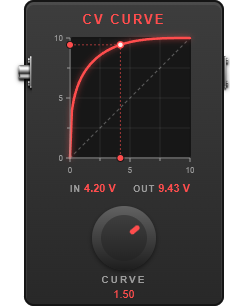
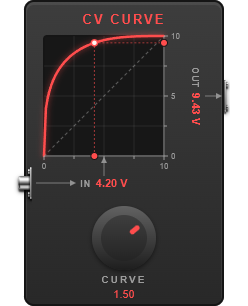
Redesign the graph labels, add signal-flow arrows, and glide the dots
- The output ruler moves to the right-hand side of the graph. The IN readout
  now sits under the bottom ruler as the x-axis label, and the OUT readout
  runs up the right ruler as the y-axis label, so each axis says what it is.
- Thin arrows show the signal flowing in from the left jack, into the bottom
  of the graph, and out to the right jack. The jacks move to line up with the
  IN and OUT readouts.
- The input and output dots, guide lines and numbers ease toward each new
  value instead of stepping, since MOD only reports the values a few times a
  second. It is browser-side only (the Dwarf sends the same data as before)
  and deliberately tight (30 ms) so it does not trail what you hear.
- tests/modgui-script-test.js now also drives animation frames by hand to
  check the dots glide, settle exactly on the target, run a single loop that
  stops when idle, and stop when the pedal is removed.
- Regenerated the store screenshot and thumbnail; README describes the new
  layout.

diff --git a/tests/modgui-script-test.js b/tests/modgui-script-test.js
@@ -4,6 +4,7 @@
 //   - it calls the script's function afresh for EVERY update, with a new `event` each time;
 //   - the only thing carried from one call to the next is `event.data`, one object kept for the life of the pedal;
 //   - if the function ever throws, MOD disables the script for good.
+// Animation frames are driven by hand here so the smoothing can be checked exactly.
 //
 // Usage: node tests/modgui-script-test.js
 const fs = require('fs');
@@ -12,9 +13,22 @@ const path = require('path');
 const src = fs.readFileSync(path.join(__dirname, '..', 'mod-cv-curve.lv2', 'modgui', 'script-mod-cv-curve.js'), 'utf8').trim();
 const fn = eval('(' + src + ')');
 
+// Animation frames, advanced by hand.
+let frames = [];
+let now = 1000;
+global.window = { requestAnimationFrame(f) { frames.push(f); return frames.length; } };
+function advance(ms) {
+  for (let t = 0; t < ms; t += 16) {
+    now += 16;
+    const batch = frames; frames = [];
+    batch.forEach(f => f(now));
+  }
+}
+
 // A stand-in for MOD's icon: remembers the last thing the script wrote to each element.
 const written = {};
 const icon = {
+  0: { isConnected: true },
   find(selector) {
     return {
       attr(key, value) {
@@ -36,34 +50,58 @@ function send(event) {
 
 let failures = 0;
 function check(name, ok) { console.log((ok ? 'PASS' : 'FAIL') + '  ' + name); if (!ok) failures++; }
-const px = v => 30 + v / 10 * 120, py = v => 126 - v / 10 * 120;
+// The graph: 0 V, 0 V is at (20, 156); the plot is 120 px square; the output ruler is the right-hand edge, x = 140.
+const px = v => 20 + v / 10 * 120, py = v => 156 - v / 10 * 120;
 
 send({ type: 'start', ports: [{ symbol: 'Curve', value: -0.25 }, { symbol: 'InputValue', value: 0 }, { symbol: 'OutputValue', value: 0 }] });
-check('start draws the curve', /^M30\.00 126\.00L/.test(written['.curve-path d'] || ''));
+check('start draws the curve from the bottom-left corner', /^M20\.00 156\.00L/.test(written['.curve-path d'] || ''));
+check('start puts the dots at the origin of their rulers', written['.in-dot cx'] === 20 && written['.in-dot cy'] === 156 && written['.out-dot cx'] === 140 && written['.out-dot cy'] === 156);
+check('start needs no animation', frames.length === 0);
 
-// The Dwarf reports the two values in separate updates, so each update must keep the other value.
+// The Dwarf reports the two values in separate updates.
 send({ type: 'change', symbol: 'InputValue', value: 6.44 });
 send({ type: 'change', symbol: 'OutputValue', value: 5.27 });
-check('input readout survives the output update', written['.in-val text'] === '6.44 V');
-check('output readout shows the output value', written['.out-val text'] === '5.27 V');
-check('input dot is on the bottom axis at the input voltage', written['.in-dot cx'] === px(6.44) && written['.in-dot cy'] === 126);
-check('output dot is on the left axis at the output voltage', written['.out-dot cx'] === 30 && written['.out-dot cy'] === py(5.27));
-check('curve dot is where the two meet', written['.pt-dot cx'] === px(6.44) && written['.pt-dot cy'] === py(5.27));
-check('vertical guide line joins the input dot to the curve', written['.in-line d'] === 'M' + px(6.44) + ' 126V' + py(5.27));
-check('horizontal guide line joins the output dot to the curve', written['.out-line d'] === 'M30 ' + py(5.27) + 'H' + px(6.44));
+check('a new value does not jump: the dots have not moved yet', written['.in-dot cx'] === 20 && written['.out-dot cy'] === 156);
+check('updates start exactly one animation loop', frames.length === 1);
+
+advance(64);
+const inEarly = written['.in-dot cx'], outEarly = written['.out-dot cy'];
+check('the input dot glides: partway along the bottom ruler', inEarly > 20 && inEarly < px(6.44));
+check('the output dot glides: partway up the right-hand ruler', outEarly < 156 && outEarly > py(5.27));
+advance(64);
+check('both dots keep moving toward their targets', written['.in-dot cx'] > inEarly && written['.out-dot cy'] < outEarly);
+
+advance(3000);
+check('the input dot settles exactly on the input voltage, on the bottom ruler', written['.in-dot cx'] === px(6.44) && written['.in-dot cy'] === 156);
+check('the output dot settles exactly on the output voltage, on the right-hand ruler', written['.out-dot cx'] === 140 && written['.out-dot cy'] === py(5.27));
+check('the curve dot is where the two meet', written['.pt-dot cx'] === px(6.44) && written['.pt-dot cy'] === py(5.27));
+check('vertical guide line joins the input dot to the curve', written['.in-line d'] === 'M' + px(6.44) + ' 156V' + py(5.27));
+check('horizontal guide line joins the curve to the output dot', written['.out-line d'] === 'M' + px(6.44) + ' ' + py(5.27) + 'H140');
+check('IN and OUT readouts show the final values', written['.in-val text'] === '6.44 V' && written['.out-val text'] === '5.27 V');
+check('the loop stops once everything has settled', frames.length === 0);
 
 send({ type: 'change', symbol: 'InputValue', value: 2 });
+advance(3000);
 check('a new input keeps the last output', written['.out-val text'] === '5.27 V' && written['.in-val text'] === '2.00 V');
 
 const before = written['.curve-path d'];
 send({ type: 'change', symbol: 'Curve', value: 3 });
-check('turning Curve redraws the curve', written['.curve-path d'] !== before);
+check('turning Curve redraws the curve at once', written['.curve-path d'] !== before && frames.length === 0);
 check('turning Curve keeps the dots where they were', written['.in-val text'] === '2.00 V' && written['.out-val text'] === '5.27 V');
 
 send({ type: 'change', symbol: 'InputValue', value: 14 });
+advance(3000);
 check('input above 10 V keeps its dot on the graph', written['.in-dot cx'] === px(10));
 send({ type: 'change', symbol: 'OutputValue', value: -3 });
+advance(3000);
 check('output below 0 V keeps its dot on the graph', written['.out-dot cy'] === py(0));
+
+send({ type: 'change', symbol: 'InputValue', value: 8 });
+send({ type: 'change', symbol: 'OutputValue', value: 9 });
+icon[0].isConnected = false;
+advance(200);
+check('animation stops when the pedal is removed from the page', frames.length === 0);
+icon[0].isConnected = true;
 
 send({ type: 'change', symbol: 'InputValue', value: 'oops' });
 send({ type: 'change', symbol: 'InputValue', value: NaN });

diff --git a/mod-cv-curve.lv2/modgui/script-mod-cv-curve.js b/mod-cv-curve.lv2/modgui/script-mod-cv-curve.js
@@ -1,12 +1,22 @@
 // Keeps the graph in step with the plugin: redraws the curve when Curve changes, and moves the input/output
-// dots, their guide lines and the numeric readouts as the Input Value and Output Value ports change.
+// dots, their guide lines and the IN / OUT readouts as the Input Value and Output Value ports change. MOD only
+// reports those values a few times a second, so the dots glide to each new value instead of jumping.
 function (event) {
     var icon = event.icon;
-    // The graph is drawn in pixels: the plot area is 120x120 with 0 V, 0 V at (30, 126).
-    var X0 = 30, Y0 = 126, SIZE = 120;
+    // The graph is drawn in pixels: the plot area is 120x120 with 0 V, 0 V at (20, 156); the output ruler is the
+    // right-hand edge at x = 140.
+    var X0 = 20, Y0 = 156, SIZE = 120, XR = X0 + SIZE;
+    // Milliseconds: how quickly the dots catch up with the latest value. Small on purpose, so the smoothing only
+    // hides the steps between MOD's updates without trailing noticeably behind what you hear.
+    var TAU = 30;
+
     // MOD calls this function afresh for every update; only event.data carries over between calls, so the
     // values the graph needs live there. (If this function ever throws, MOD disables the script for good.)
-    var state = event.data.state || (event.data.state = { curve: 0, input: 0, output: 0 });
+    var s = event.data.state || (event.data.state = {
+        curve: 0, input: 0, output: 0,      // the latest values from the plugin
+        shownIn: 0, shownOut: 0,            // what is drawn right now, easing toward the latest values
+        last: 0, running: false
+    });
 
     var curvePath = icon.find('.curve-path');
     var inLine = icon.find('.in-line');
@@ -23,7 +33,7 @@ function (event) {
 
     function drawCurve() {
         // The same maths as the plugin. u is the input as a fraction of 0-10 V, y the output fraction.
-        var coef = Math.pow(2 + state.curve * 0.123, state.curve);
+        var coef = Math.pow(2 + s.curve * 0.123, s.curve);
         var d = '';
         for (var i = 0; i <= 64; i++) {
             var u = i / 64;
@@ -34,31 +44,61 @@ function (event) {
     }
 
     function drawMarkers() {
-        var x = px(state.input), y = py(state.output);
+        var x = px(s.shownIn), y = py(s.shownOut);
         inDot.attr({ cx: x, cy: Y0 });
-        outDot.attr({ cx: X0, cy: y });
+        outDot.attr({ cx: XR, cy: y });
         ptDot.attr({ cx: x, cy: y });
         inLine.attr('d', 'M' + x + ' ' + Y0 + 'V' + y);
-        outLine.attr('d', 'M' + X0 + ' ' + y + 'H' + x);
-        inVal.text(state.input.toFixed(2) + ' V');
-        outVal.text(state.output.toFixed(2) + ' V');
+        outLine.attr('d', 'M' + x + ' ' + y + 'H' + XR);
+        inVal.text(s.shownIn.toFixed(2) + ' V');
+        outVal.text(s.shownOut.toFixed(2) + ' V');
     }
 
-    function apply(symbol, value) {
+    function frame(now) {
+        s.running = false;
+        var el = icon[0];
+        if (el && el.isConnected === false) { return; } // the pedal was removed: stop animating
+        var dt = Math.min(now - (s.last || now), 100);
+        s.last = now;
+        var k = 1 - Math.exp(-dt / TAU);
+        s.shownIn += (s.input - s.shownIn) * k;
+        s.shownOut += (s.output - s.shownOut) * k;
+        if (Math.abs(s.input - s.shownIn) < 0.002) { s.shownIn = s.input; }
+        if (Math.abs(s.output - s.shownOut) < 0.002) { s.shownOut = s.output; }
+        drawMarkers();
+        if (s.shownIn !== s.input || s.shownOut !== s.output) { request(); }
+    }
+
+    function request() {
+        s.running = true;
+        window.requestAnimationFrame(frame);
+    }
+
+    function start() {
+        if (s.running) { return; }
+        s.last = 0; // a fresh animation: the first frame only sets the clock
+        request();
+    }
+
+    function apply(symbol, value, animate) {
         value = Number(value);
         if (!isFinite(value)) { return; }
-        if (symbol == 'Curve') { state.curve = value; drawCurve(); }
-        else if (symbol == 'InputValue') { state.input = value; }
-        else if (symbol == 'OutputValue') { state.output = value; }
-        else { return; }
-        drawMarkers();
+        if (symbol == 'Curve') {
+            s.curve = value;
+            drawCurve();
+        } else if (symbol == 'InputValue' || symbol == 'OutputValue') {
+            if (symbol == 'InputValue') { s.input = value; } else { s.output = value; }
+            if (animate) { start(); return; }
+            s.shownIn = s.input; s.shownOut = s.output;
+            drawMarkers();
+        }
     }
 
     if (event.type == 'start') {
         for (var p in event.ports) {
-            apply(event.ports[p].symbol, event.ports[p].value);
+            apply(event.ports[p].symbol, event.ports[p].value, false);
         }
     } else if (event.type == 'change') {
-        apply(event.symbol, event.value);
+        apply(event.symbol, event.value, true);
     }
 }

diff --git a/mod-cv-curve.lv2/modgui/icon-mod-cv-curve.html b/mod-cv-curve.lv2/modgui/icon-mod-cv-curve.html
@@ -3,30 +3,40 @@
 
     <div class="title">CV CURVE</div>
 
-    <!-- Graph, drawn 1:1 in pixels. The plot area is 120x120 with its origin (0 V, 0 V) at x=30, y=126.
-         script-mod-cv-curve.js moves the dots and lines and redraws the curve. -->
-    <svg class="plot" xmlns="http://www.w3.org/2000/svg" width="168" height="146" viewBox="0 0 168 146">
-        <rect class="plot-bg" x="30" y="6" width="120" height="120" rx="3"/>
-        <path class="grid" d="M60 6V126M90 6V126M120 6V126M30 36H150M30 66H150M30 96H150"/>
-        <path class="linear" d="M30 126L150 6"/>
-        <path class="curve-path" d="M30 126L150 6"/>
-        <path class="in-line" d="M30 126V126"/>
-        <path class="out-line" d="M30 126H30"/>
-        <path class="axis" d="M30 6V126H150"/>
-        <path class="ticks" d="M26 126H30M27 96H30M26 66H30M27 36H30M26 6H30M30 126V130M60 126V129M90 126V130M120 126V129M150 126V130"/>
-        <text class="tick" x="23" y="129" text-anchor="end">0</text>
-        <text class="tick" x="23" y="69" text-anchor="end">5</text>
-        <text class="tick" x="23" y="9" text-anchor="end">10</text>
-        <text class="tick" x="30" y="141" text-anchor="middle">0</text>
-        <text class="tick" x="90" y="141" text-anchor="middle">5</text>
-        <text class="tick" x="150" y="141" text-anchor="middle">10</text>
-        <circle class="pt-dot" cx="30" cy="126" r="3"/>
-        <circle class="in-dot" cx="30" cy="126" r="3.5"/>
-        <circle class="out-dot" cx="30" cy="126" r="3.5"/>
-    </svg>
+    <!-- The graph and its labels, drawn 1:1 in pixels over the pedal face. The plot area is 120x120 with its origin
+         (0 V, 0 V) at x=20, y=156. The input ruler runs along the bottom with the IN readout as its label; the
+         output ruler runs up the right side with the OUT readout as its label. The thin lines with arrowheads show
+         the signal flowing in from the left jack, through the graph, and out to the right jack.
+         script-mod-cv-curve.js redraws the curve and moves the dots and guide lines. -->
+    <svg class="plot" xmlns="http://www.w3.org/2000/svg" width="200" height="200" viewBox="0 0 200 200">
+        <rect class="plot-bg" x="20" y="36" width="120" height="120" rx="3"/>
+        <path class="grid" d="M50 36V156M80 36V156M110 36V156M20 66H140M20 96H140M20 126H140"/>
+        <path class="linear" d="M20 156L140 36"/>
+        <path class="curve-path" d="M20 156L140 36"/>
+        <path class="in-line" d="M20 156V156"/>
+        <path class="out-line" d="M20 156H20"/>
+        <path class="axis" d="M20 156H140V36"/>
+        <path class="ticks" d="M20 156V160M50 156V159M80 156V160M110 156V159M140 156V160M140 156H144M140 126H143M140 96H144M140 66H143M140 36H144"/>
+        <text class="tick" x="20" y="169" text-anchor="middle">0</text>
+        <text class="tick" x="140" y="169" text-anchor="middle">10</text>
+        <text class="tick" x="147" y="159">0</text>
+        <text class="tick" x="147" y="99">5</text>
+        <text class="tick" x="147" y="39">10</text>
 
-    <div class="readout in-readout"><span class="r-lbl">IN</span> <span class="in-val">0.00 V</span></div>
-    <div class="readout out-readout"><span class="r-lbl">OUT</span> <span class="out-val">0.00 V</span></div>
+        <path class="flow" d="M12 183H46"/>
+        <path class="flow-head" d="M52 183L46 180V186Z"/>
+        <path class="flow" d="M80 176V163"/>
+        <path class="flow-head" d="M80 157L77 163H83Z"/>
+        <path class="flow" d="M181 96H192"/>
+        <path class="flow-head" d="M198 96L192 93V99Z"/>
+
+        <text class="in-label" x="80" y="187" text-anchor="middle"><tspan class="r-lbl">IN</tspan> <tspan class="in-val">0.00 V</tspan></text>
+        <text class="out-label" transform="rotate(90 172 96)" x="172" y="96" dy="4" text-anchor="middle"><tspan class="r-lbl">OUT</tspan> <tspan class="out-val">0.00 V</tspan></text>
+
+        <circle class="pt-dot" cx="20" cy="156" r="3"/>
+        <circle class="in-dot" cx="20" cy="156" r="3.5"/>
+        <circle class="out-dot" cx="140" cy="156" r="3.5"/>
+    </svg>
 
     <div class="knob-base"></div>
     <div class="knob" mod-role="input-control-port" mod-widget="film" mod-widget-rotation="270" mod-port-symbol="Curve" title="Curve"></div>

diff --git a/mod-cv-curve.lv2/modgui/stylesheet-mod-cv-curve.css b/mod-cv-curve.lv2/modgui/stylesheet-mod-cv-curve.css
@@ -36,8 +36,8 @@
    so its text stays crisp; script-mod-cv-curve.js moves the dots and lines and redraws the curve. */
 .mod-pedal.mod-cv-curve{{{cns}}} .plot {
     position: absolute;
-    left: 16px;
-    top: 32px;
+    left: 0;
+    top: 0;
     display: block;
     overflow: visible;
 }
@@ -92,26 +92,35 @@
     stroke-width: 1.5;
 }
 
-/* Live numeric readouts under the graph. */
-.mod-pedal.mod-cv-curve{{{cns}}} .readout {
-    position: absolute;
-    top: 182px;
-    font-size: 11px;
+/* The IN readout labels the input ruler along the bottom; the OUT readout labels the output ruler up the right. */
+.mod-pedal.mod-cv-curve{{{cns}}} .plot .in-label,
+.mod-pedal.mod-cv-curve{{{cns}}} .plot .out-label {
+    font-family: Arial, Helvetica, sans-serif;
     font-variant-numeric: tabular-nums;
-    white-space: nowrap;
+    white-space: pre;
 }
-.mod-pedal.mod-cv-curve{{{cns}}} .in-readout { left: 46px; }
-.mod-pedal.mod-cv-curve{{{cns}}} .out-readout { right: 34px; text-align: right; }
-.mod-pedal.mod-cv-curve{{{cns}}} .r-lbl {
+.mod-pedal.mod-cv-curve{{{cns}}} .plot .r-lbl {
+    fill: #9c9c9c;
     font-size: 9px;
     font-weight: bold;
     letter-spacing: 1px;
-    color: #9c9c9c;
 }
-.mod-pedal.mod-cv-curve{{{cns}}} .in-val,
-.mod-pedal.mod-cv-curve{{{cns}}} .out-val {
+.mod-pedal.mod-cv-curve{{{cns}}} .plot .in-val,
+.mod-pedal.mod-cv-curve{{{cns}}} .plot .out-val {
+    fill: #ff4d4d;
+    font-size: 11px;
     font-weight: bold;
-    color: #ff4d4d;
+}
+
+/* Thin lines with arrowheads showing the signal flowing in from the left jack, into the graph, and out to the
+   right jack. */
+.mod-pedal.mod-cv-curve{{{cns}}} .plot .flow {
+    stroke: rgba(156, 156, 156, 0.7);
+    stroke-width: 1;
+}
+.mod-pedal.mod-cv-curve{{{cns}}} .plot .flow-head {
+    fill: rgba(156, 156, 156, 0.9);
+    stroke: none;
 }
 
 /* Curve knob. MOD rotates the .knob element itself (mod-widget-rotation), so it only holds the indicator;
@@ -185,12 +194,12 @@
 .mod-pedal.mod-cv-curve{{{cns}}} .mod-pedal-input {
     position: absolute;
     right: 100%;
-    top: 44px;
+    top: 155px; /* centred on the IN readout, so the flow line runs straight in from the jack */
     z-index: 40;
 }
 .mod-pedal.mod-cv-curve{{{cns}}} .mod-pedal-output {
     position: absolute;
     left: 100%;
-    top: 44px;
+    top: 68px; /* centred on the OUT readout, so the flow line runs straight out to the jack */
     z-index: 40;
 }

diff --git a/README.md b/README.md
@@ -6,7 +6,7 @@
 
 An LV2 plugin for [MOD Devices](https://mod.audio/) hardware (built for the MOD Dwarf) that bends a control voltage (CV) along an adjustable curve.
 
-With **Curve** at 0 the output follows the input exactly. Turn it one way and the output starts slowly and finishes fast; turn it the other way and it starts fast and eases off. Use it to give a footswitch ramp, an LFO or an envelope a more natural response before it drives a parameter. The pedal shows a live graph of the curve and redraws it as you turn the knob. Dots on the graph's voltage rulers follow the incoming and outgoing voltages, joined to the curve by thin guide lines, with the exact values shown underneath.
+With **Curve** at 0 the output follows the input exactly. Turn it one way and the output starts slowly and finishes fast; turn it the other way and it starts fast and eases off. Use it to give a footswitch ramp, an LFO or an envelope a more natural response before it drives a parameter. The pedal shows a live graph of the curve and redraws it as you turn the knob. Dots on the graph's voltage rulers follow the incoming voltage (bottom ruler) and outgoing voltage (right-hand ruler) and glide smoothly between updates, joined to the curve by thin guide lines. The **IN** and **OUT** readouts double as the axis labels, and thin arrows show the signal flowing in from the left jack, through the graph, and out to the right jack.
 
 ## Ports
 
